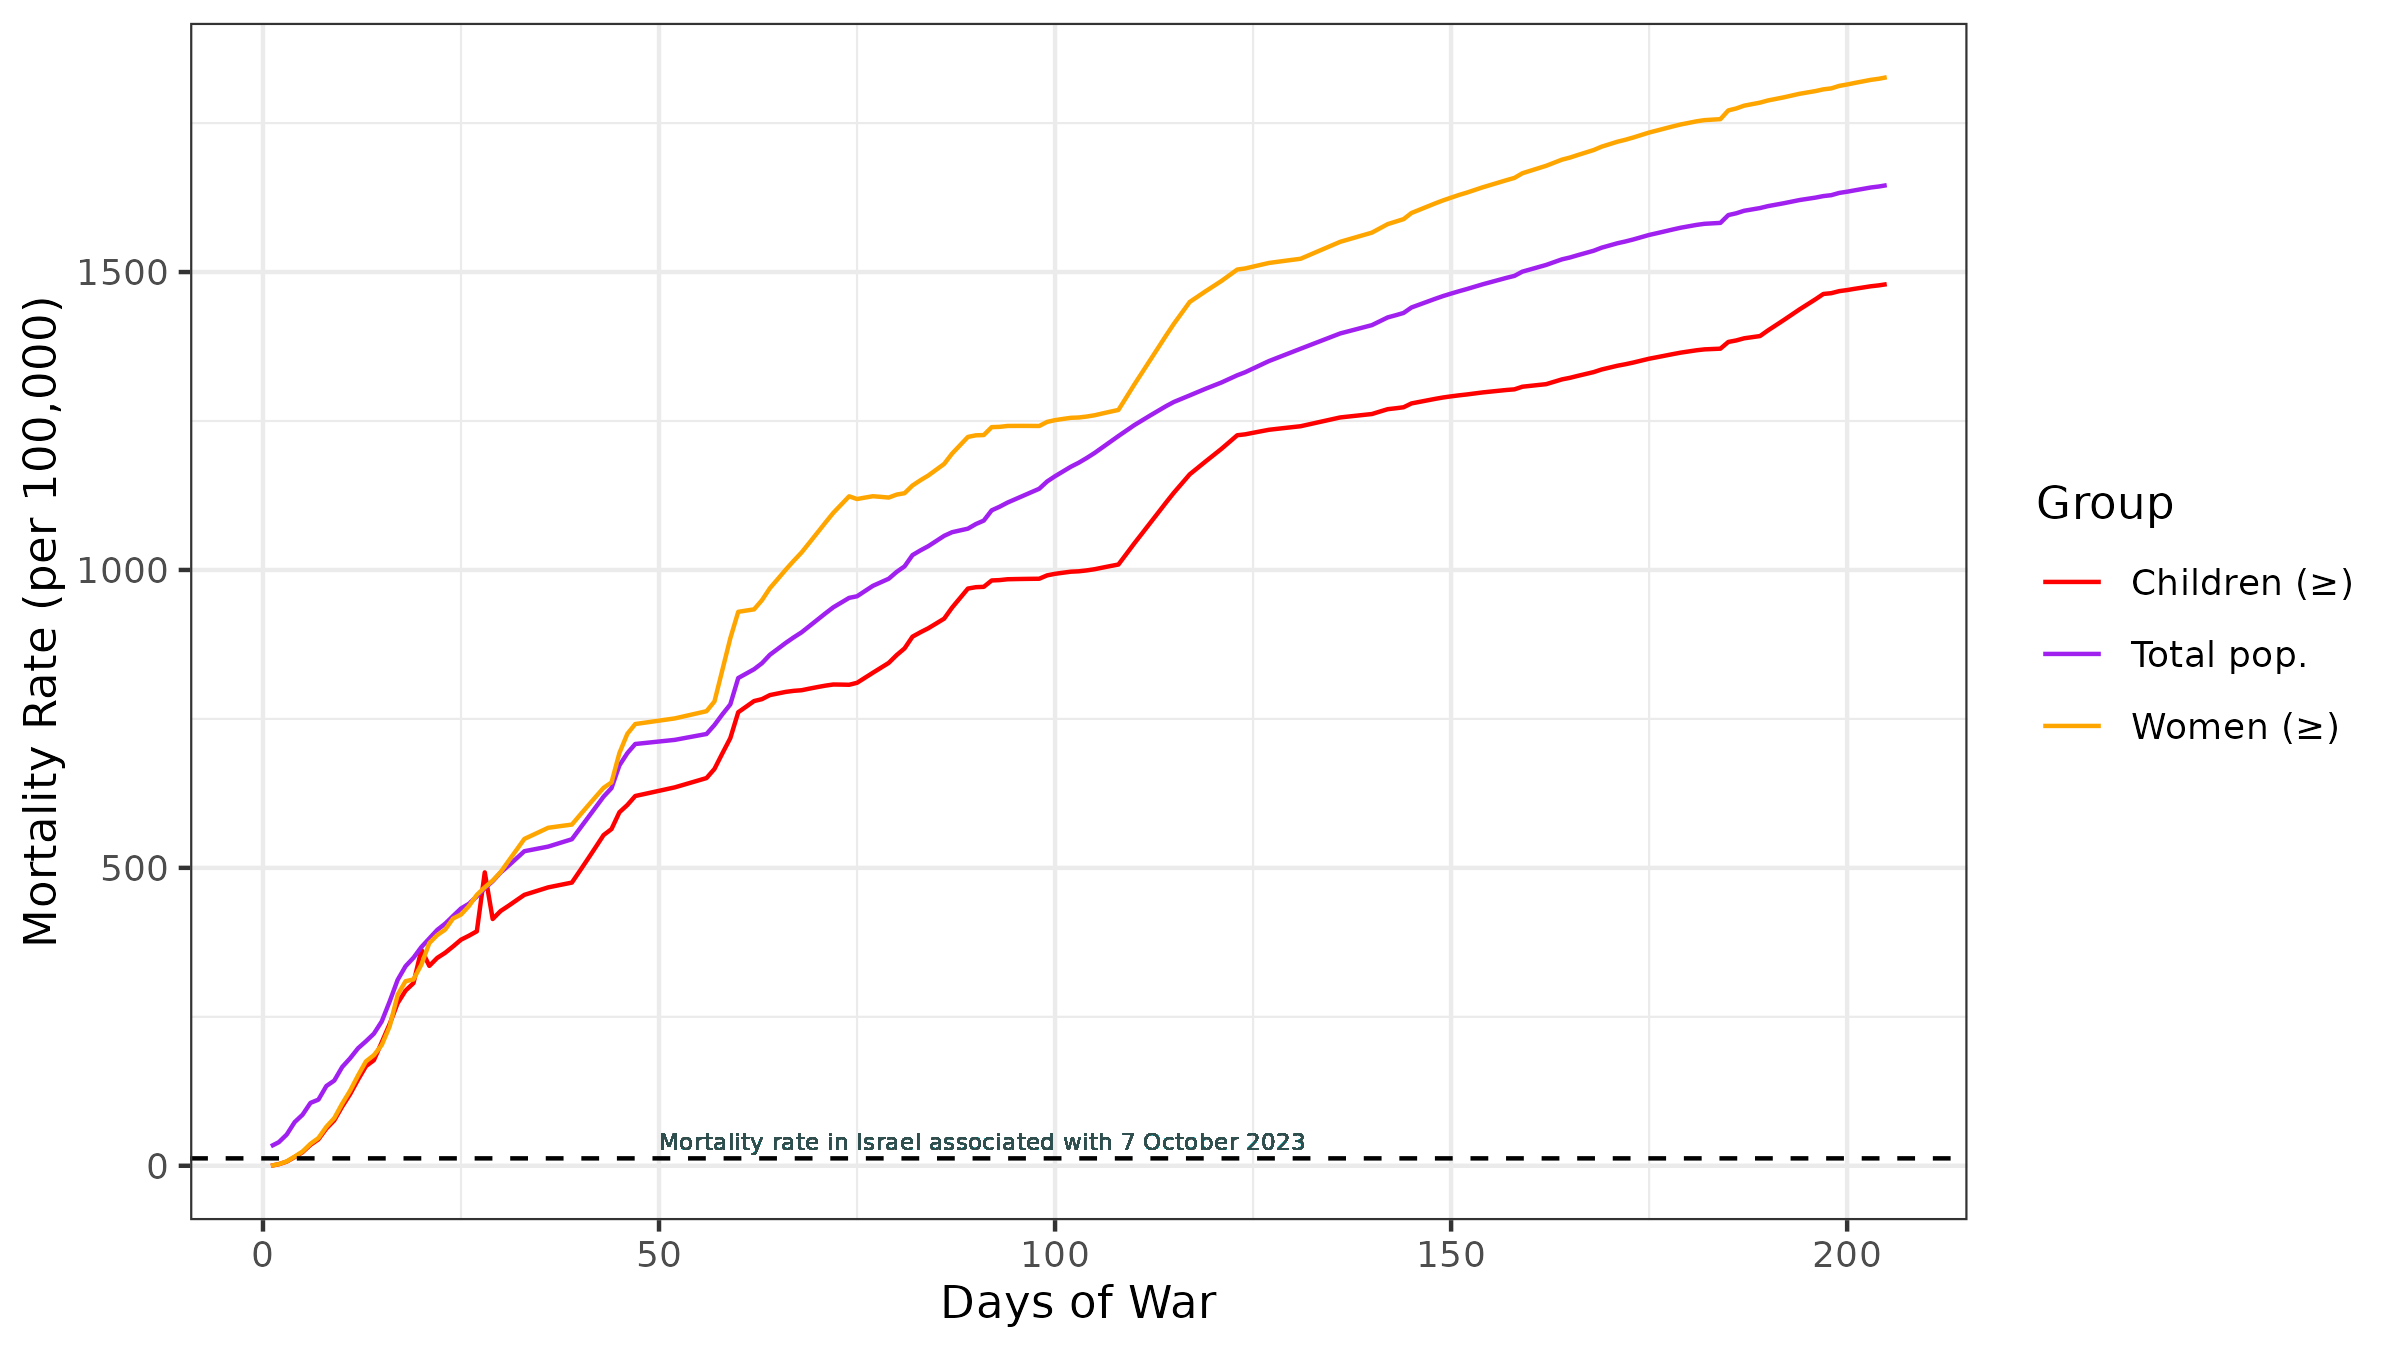
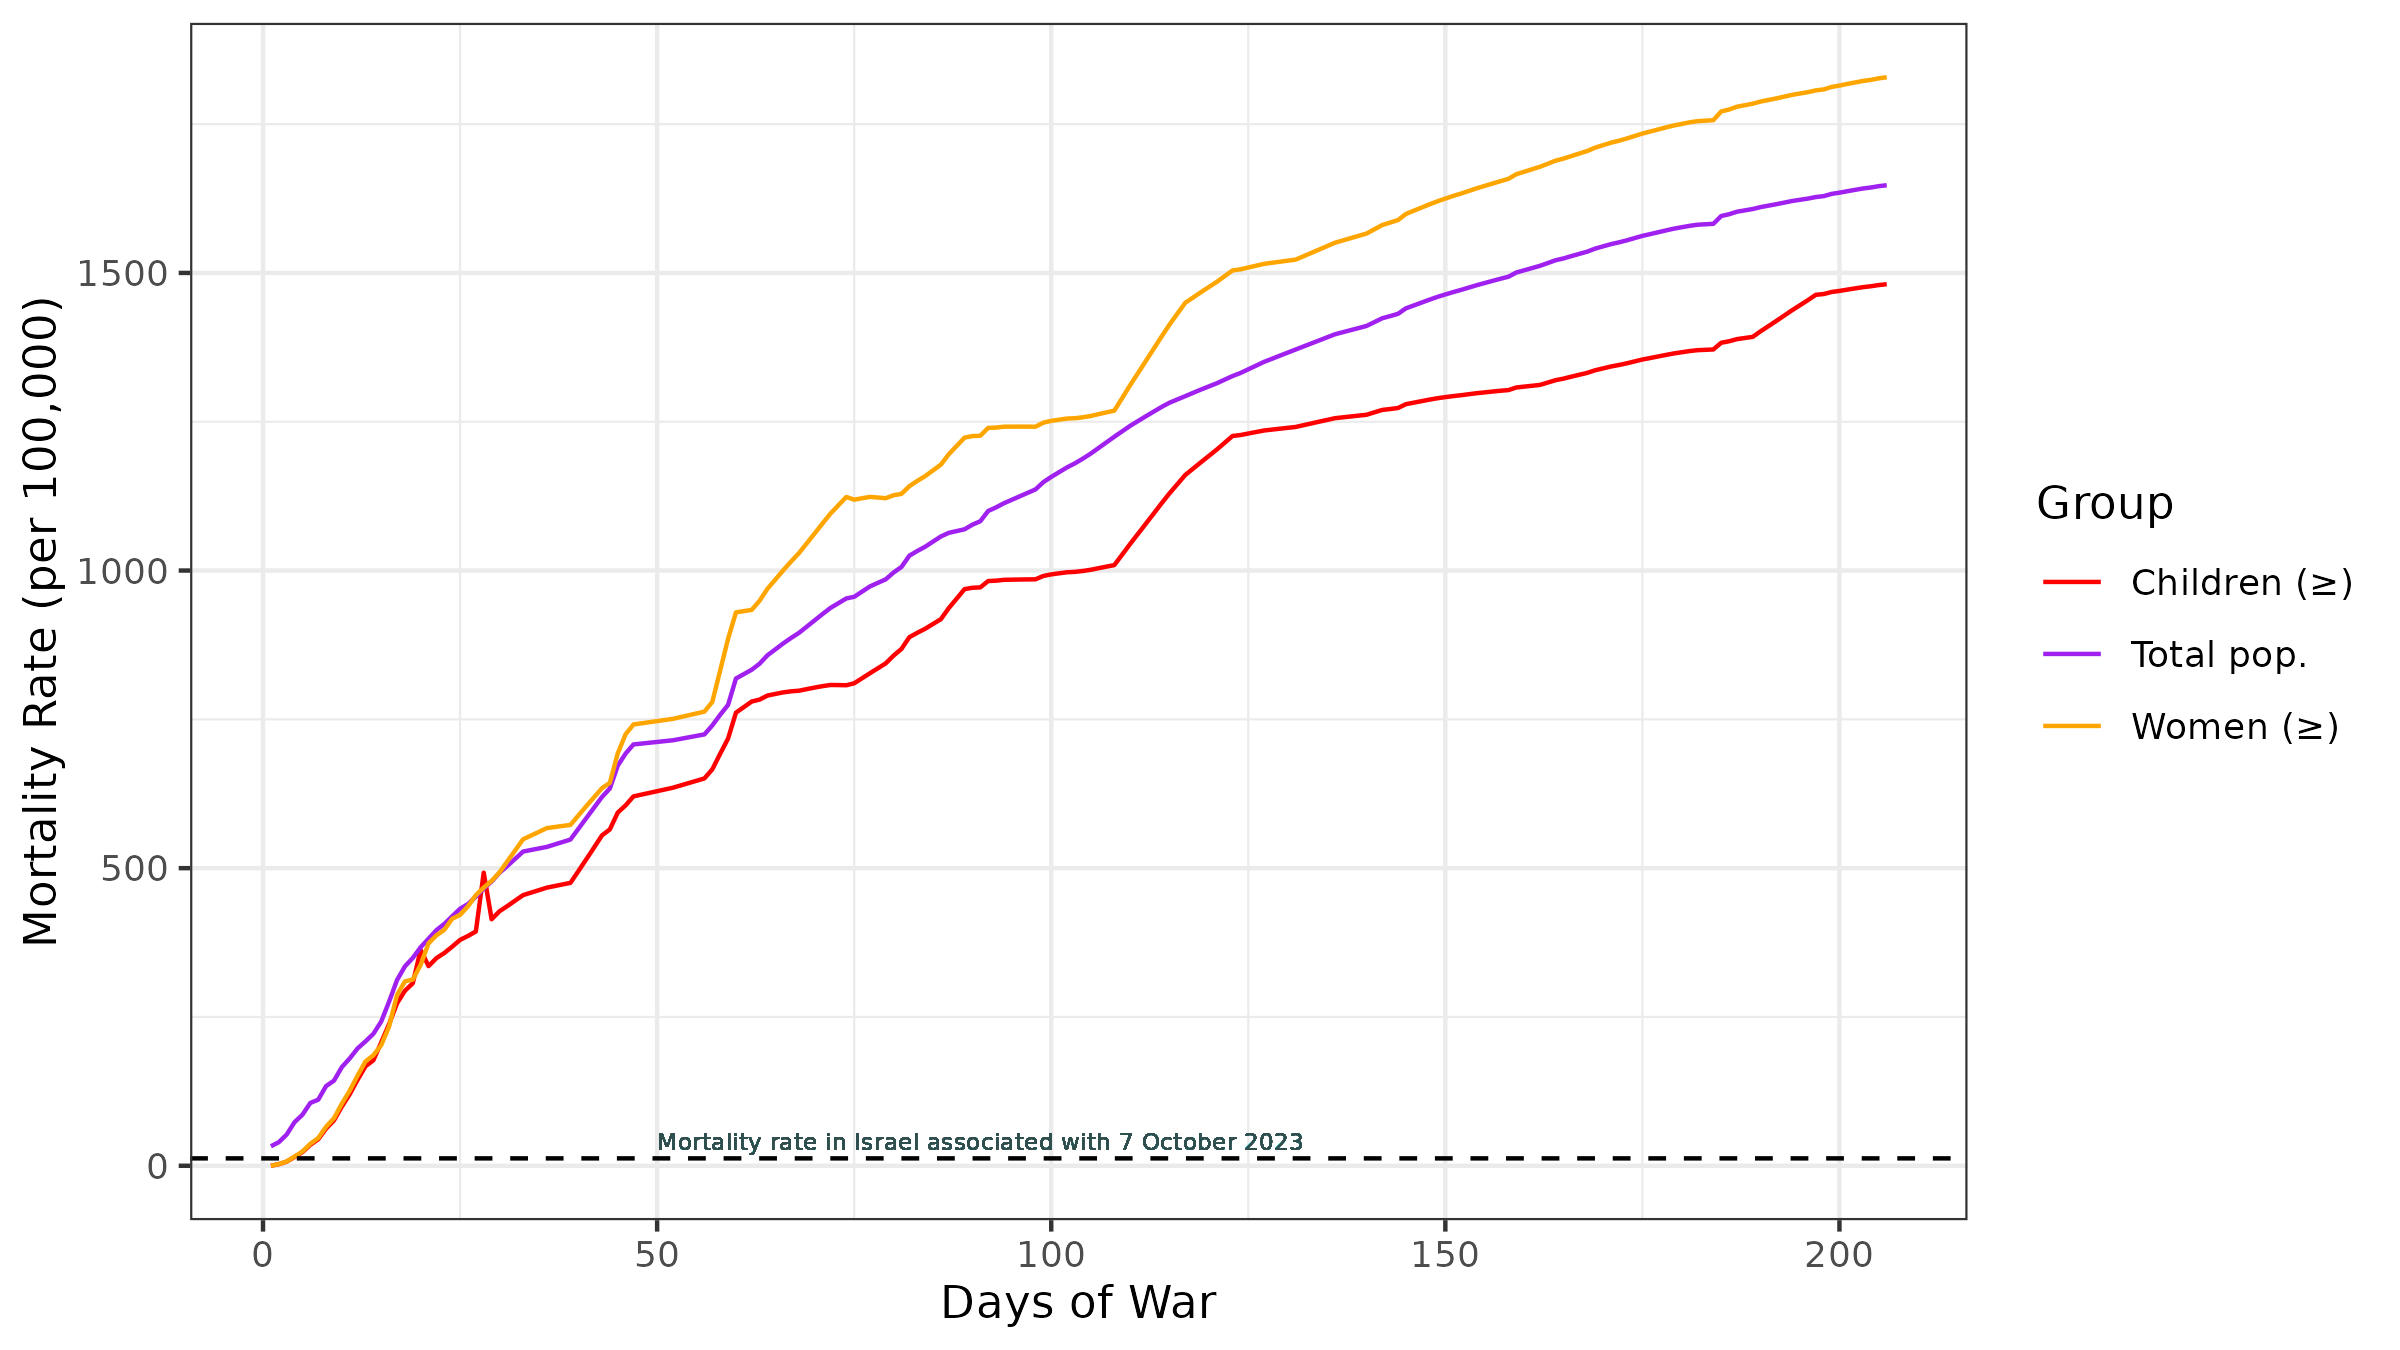
Data updated 1 May 2024

diff --git a/README.md b/README.md
@@ -1,5 +1,5 @@
 Tracking mortality in Palestine following Israel's assault against Gaza (2023-2024). 
-*Last updated 30 April 2024*
+*Last updated 1 May 2024*
 
 # Gaza Conflict Tracker
 
